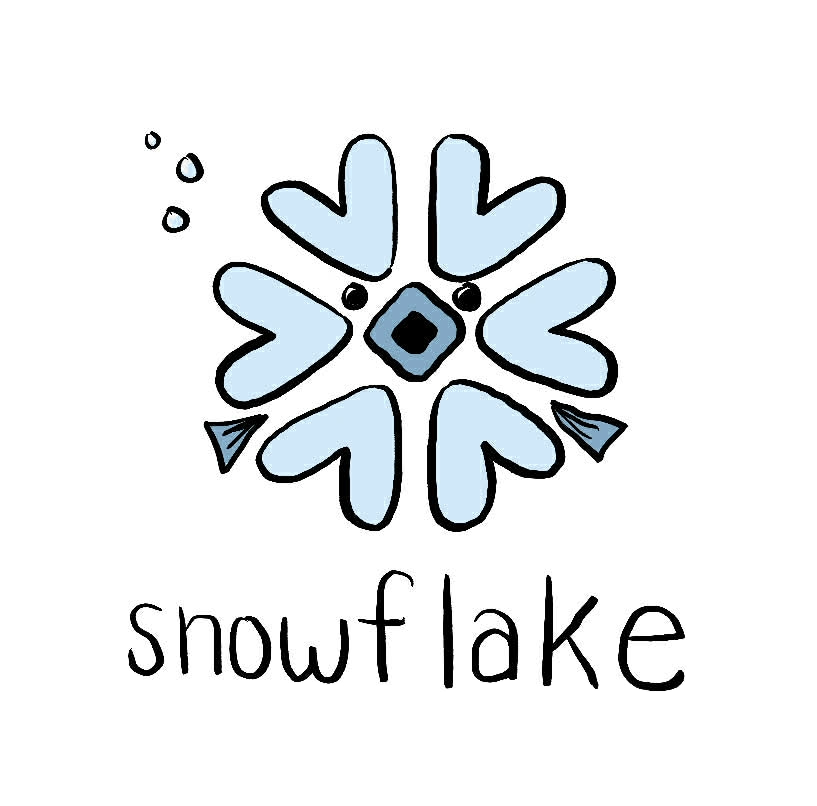
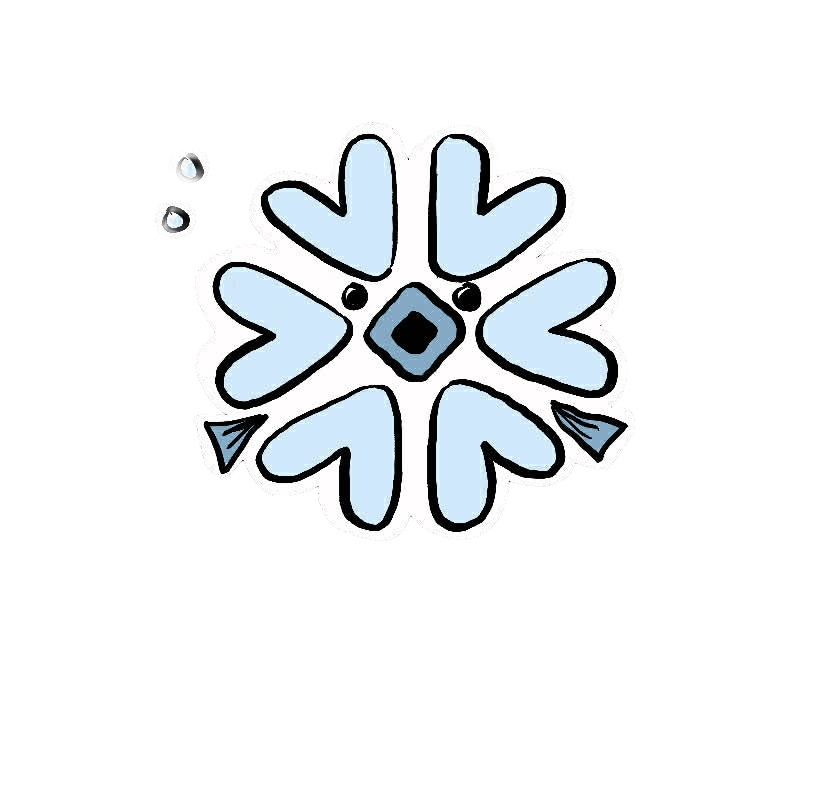
Tracks pager polish, scrollbar isolation, prizes, and audit cleanup
- Add prize line per track with muted gold styling and small dollar glyph
- Replace snowflake image, restyle headings to black with outline, scale pager controls fluidly
- Tracks scroll container narrowed and only shows scrollbar on overflow
- Force pointer-events: none on inactive section descendants so FAQ scroll no longer steals clicks meant for TRACKS
- Side-nav buttons only catch clicks on the visible bubble, not the full padding box
- TracksSection now uses SectionContainer with a new bare prop, matching other sections
- Drop Discord link, unify contact email to uncommonhacks@gmail.com, remove stale comments

diff --git a/site/src/components/sections/TracksSection.tsx b/site/src/components/sections/TracksSection.tsx
@@ -1,5 +1,5 @@
 import { useState } from 'react';
-import { useNavigation } from '../../context/navigation';
+import SectionContainer from './SectionContainer';
 import './sections.css';
 
 function wrapDashes(s: string) {
@@ -8,21 +8,33 @@ function wrapDashes(s: string) {
   );
 }
 
-type Item = { name: string; desc: string; image: string };
+function wrapPrize(s: string) {
+  return s.split(/(\$)/).flatMap((chunk, i) =>
+    chunk === '$'
+      ? [<span key={`d${i}`} className="prize-dollar">$</span>]
+      : wrapDashes(chunk).map((node, j) =>
+          typeof node === 'string'
+            ? <span key={`t${i}-${j}`}>{node}</span>
+            : node
+        )
+  );
+}
+
+type Item = { name: string; desc: string; image: string; prize: string };
 
 const TRACKS: Item[] = [
-  { name: 'Best Overall', desc: 'Awarded to the most impressive project across all dimensions — vision, execution, and pure originality.', image: '/assets/tracks/bestoverall.png' },
-  { name: 'Best Use of Real-Time Data', desc: 'For the project that turns live data streams into something useful or beautiful — built to react instantly.', image: '/assets/tracks/realdata.png' },
-  { name: 'Best Inference', desc: 'For the team pushing the limits of how models reason at the edge — speed, efficiency, scale, and novelty.', image: '/assets/tracks/inference.png' },
-  { name: 'Best Game Design', desc: 'For the most polished, playable, and inventive game built over the weekend — fresh, fun, and unforgettable.', image: '/assets/tracks/gamedesign.png' },
-  { name: 'Best Social Impact', desc: 'For projects that tackle real human problems — accessibility, community, education, or anything beyond that.', image: '/assets/tracks/socialimpact.png' },
-  { name: 'Best Agent for Prediction Markets', desc: 'For the most capable autonomous agent operating in prediction markets — reasoning, betting, and adapting.', image: '/assets/tracks/predictionmarket.png' },
+  { name: 'Best Overall', desc: 'Awarded to the most impressive project across all dimensions — vision, execution, and pure originality.', image: '/assets/tracks/bestoverall.png', prize: '$1,000 + ElevenLabs Pro Tier ($99/mo)' },
+  { name: 'Best Use of Real-Time Data', desc: 'For the project that turns live data streams into something useful or beautiful — built to react instantly.', image: '/assets/tracks/realdata.png', prize: '$300' },
+  { name: 'Best Inference', desc: 'For the team pushing the limits of how models reason at the edge — speed, efficiency, scale, and novelty.', image: '/assets/tracks/inference.png', prize: '$300' },
+  { name: 'Best Game Design', desc: 'For the most polished, playable, and inventive game built over the weekend — fresh, fun, and unforgettable.', image: '/assets/tracks/gamedesign.png', prize: '$300' },
+  { name: 'Best Social Impact', desc: 'For projects that tackle real human problems — accessibility, community, education, or anything beyond that.', image: '/assets/tracks/socialimpact.png', prize: '$300' },
+  { name: 'Best Agent for Prediction Markets', desc: 'For the most capable autonomous agent operating in prediction markets — reasoning, betting, and adapting.', image: '/assets/tracks/predictionmarket.png', prize: '$300' },
 ];
 
 const AWARDS: Item[] = [
-  { name: 'Most Uncommon', desc: 'For the project that breaks the mold — weird, wild, and unexpected in ways that redefine what is possible.', image: '/assets/tracks/mostuncommon.png' },
-  { name: 'Best Use of ElevenLabs', desc: 'For the most creative use of ElevenLabs voice technology — bringing characters, interfaces, or stories to life.', image: '/assets/tracks/elevenlabs.png' },
-  { name: 'Best Use of Snowflake', desc: 'For the most clever application of Snowflake data infrastructure — turning raw data into something insightful.', image: '/assets/tracks/snowflake.png' },
+  { name: 'Most Uncommon', desc: 'For the project that breaks the mold — weird, wild, and unexpected in ways that redefine what is possible.', image: '/assets/tracks/mostuncommon.png', prize: '$500' },
+  { name: 'Best Use of ElevenLabs', desc: 'For the most creative use of ElevenLabs voice technology — bringing characters, interfaces, or stories to life.', image: '/assets/tracks/elevenlabs.png', prize: 'ElevenLabs Scale Tier ($330/mo)' },
+  { name: 'Best Use of Snowflake', desc: 'For the most clever application of Snowflake data infrastructure — turning raw data into something insightful.', image: '/assets/tracks/snowflake.png', prize: '6-month access to Snowflake + LinkedIn feature' },
 ];
 
 function TrackPanel({ items, kind, heading }: { items: Item[]; kind: 'track' | 'award'; heading: string }) {
@@ -56,6 +68,7 @@ function TrackPanel({ items, kind, heading }: { items: Item[]; kind: 'track' | '
       </div>
       <h3 className="track-panel-name">{wrapDashes(current.name)}</h3>
       <p className="track-panel-desc">{wrapDashes(current.desc)}</p>
+      <p className="track-panel-prize">{wrapPrize(current.prize)}</p>
       <div className="track-panel-pager">
         <button
           className="track-pager-arrow"
@@ -83,25 +96,21 @@ function TrackPanel({ items, kind, heading }: { items: Item[]; kind: 'track' | '
 }
 
 export default function TracksSection() {
-  const { currentSection } = useNavigation();
-  const isActive = currentSection === 1;
-
   return (
-    <div
-      className={`section-container section-container-centered ${isActive ? 'section-active' : 'section-inactive'}`}
-      aria-hidden={!isActive}
-    >
+    <SectionContainer index={1} className="section-container-centered" bare>
       <div className="tracks-content">
         <img
           src="/assets/branding/tracks_white.png"
           alt="Tracks"
           style={{ width: '280px', maxWidth: '28vw', marginTop: '-4vh', filter: 'brightness(0.2) drop-shadow(0 4px 8px rgba(0, 0, 0, 0.5))' }}
         />
-        <div className="track-panels">
-          <TrackPanel items={TRACKS} kind="track" heading="MAIN TRACKS" />
-          <TrackPanel items={AWARDS} kind="award" heading="SPONSORED TRACKS" />
+        <div className="tracks-scroll">
+          <div className="track-panels">
+            <TrackPanel items={TRACKS} kind="track" heading="MAIN TRACKS" />
+            <TrackPanel items={AWARDS} kind="award" heading="SPONSORED TRACKS" />
+          </div>
         </div>
       </div>
-    </div>
+    </SectionContainer>
   );
 }

diff --git a/site/src/components/sections/sections.css b/site/src/components/sections/sections.css
@@ -22,6 +22,10 @@
   transform: translateY(40px);
 }
 
+.section-inactive * {
+  pointer-events: none !important;
+}
+
 .section-inner {
   max-width: 750px;
   width: 90%;
@@ -296,11 +300,35 @@
   pointer-events: auto;
 }
 
+.tracks-scroll {
+  max-height: 88vh;
+  overflow-y: auto;
+  overscroll-behavior: contain;
+  width: min(70vw, 1020px);
+  margin: 0 auto;
+  pointer-events: auto;
+}
+
+.tracks-scroll::-webkit-scrollbar {
+  width: 9px;
+}
+.tracks-scroll::-webkit-scrollbar-track {
+  background: rgba(15, 40, 90, 0.18);
+  border-radius: 5px;
+}
+.tracks-scroll::-webkit-scrollbar-thumb {
+  background: rgba(15, 40, 90, 0.85);
+  border-radius: 5px;
+}
+.tracks-scroll::-webkit-scrollbar-thumb:hover {
+  background: rgba(25, 60, 130, 1);
+}
+
 .track-panels {
   display: flex;
   gap: clamp(1.2rem, 2.5vw, 3rem);
   margin-top: clamp(-1rem, -1vh, 0.5rem);
-  width: min(96vw, 1300px);
+  width: 100%;
   align-items: flex-start;
 }
 
@@ -311,20 +339,19 @@
   align-items: center;
   padding: clamp(0.2rem, 0.5vw, 0.6rem) clamp(0.6rem, 1.2vw, 1.4rem);
   pointer-events: auto;
+  position: relative;
+  isolation: isolate;
 }
 
 .track-panel-heading {
   font-family: 'PhoFont', sans-serif;
-  font-size: clamp(1.4rem, 1.9vw, 2.3rem);
+  font-size: clamp(1.55rem, 2.1vw, 2.5rem);
   font-weight: 900;
   letter-spacing: 0.18em;
   text-transform: uppercase;
-  color: rgba(255, 255, 255, 0.95);
+  color: #000;
   margin-bottom: clamp(0.3rem, 0.7vw, 0.8rem);
-  text-shadow:
-    0 1px 6px rgba(0, 0, 0, 0.85),
-    0 0 22px rgba(0, 0, 0, 0.6),
-    0 0 50px rgba(0, 10, 30, 0.5);
+  text-shadow: none;
 }
 
 .track-panel-square {
@@ -332,7 +359,7 @@
   width: clamp(195px, 22vw, 320px);
   height: clamp(195px, 22vw, 320px);
   margin-top: clamp(-1.6rem, -1.2vw, -0.4rem);
-  margin-bottom: clamp(0.1rem, 0.3vw, 0.5rem);
+  margin-bottom: clamp(-1.2rem, -0.8vw, -0.2rem);
   display: flex;
   align-items: center;
   justify-content: center;
@@ -345,6 +372,7 @@
   object-fit: contain;
   filter: drop-shadow(0 6px 18px rgba(0, 20, 50, 0.55));
   animation: track-image-enter 520ms cubic-bezier(0.22, 0.8, 0.32, 1) both;
+  pointer-events: none;
 }
 
 .track-panel-image--next {
@@ -378,7 +406,7 @@
   font-weight: 900;
   color: #303030;
   text-align: center;
-  margin-bottom: 0.6rem;
+  margin-bottom: 0.25rem;
   text-shadow:
     0 0 8px rgba(255, 255, 255, 0.9),
     0 0 20px rgba(255, 255, 255, 0.7),
@@ -402,21 +430,49 @@
     0 0 40px rgba(255, 255, 255, 0.4);
 }
 
+.track-panel-prize {
+  font-family: 'PhoFont', sans-serif;
+  font-size: clamp(1.25rem, 1.6vw, 1.95rem);
+  font-weight: 800;
+  color: #b8860b;
+  text-align: center;
+  margin: 0 0 0.55rem;
+  max-width: none;
+  line-height: 1.25;
+  text-shadow:
+    0 0 6px rgba(255, 248, 220, 0.85),
+    0 0 14px rgba(255, 240, 190, 0.55);
+}
+
+.track-panel-prize .thin-dash {
+  font-size: 0.75em;
+  margin: 0 0.25em;
+  vertical-align: baseline;
+}
+
+.track-panel-prize .prize-dollar {
+  font-size: 0.65em;
+  vertical-align: 0.15em;
+  margin-right: 0.05em;
+}
+
 .track-panel-pager {
   display: flex;
   align-items: center;
-  gap: 0.9rem;
-  margin-top: 0.4rem;
+  gap: clamp(0.6rem, 1vw, 1.1rem);
+  margin-top: clamp(0.3rem, 0.6vw, 0.7rem);
+  position: relative;
+  z-index: 100;
 }
 
 .track-pager-arrow {
   background: rgba(35, 75, 145, 0.7);
   border: 1px solid rgba(70, 130, 195, 0.75);
   color: rgba(235, 245, 255, 0.98);
-  width: 2.2rem;
-  height: 2.2rem;
+  width: clamp(1.8rem, 2.4vw, 2.8rem);
+  height: clamp(1.8rem, 2.4vw, 2.8rem);
   border-radius: 50%;
-  font-size: 1.5rem;
+  font-size: clamp(1.2rem, 1.7vw, 1.9rem);
   font-weight: 700;
   cursor: pointer;
   display: flex;
@@ -441,12 +497,12 @@
 .track-pager-dots {
   display: flex;
   align-items: center;
-  gap: 0.55rem;
+  gap: clamp(0.4rem, 0.6vw, 0.7rem);
 }
 
 .track-pager-dot {
-  width: 0.65rem;
-  height: 0.65rem;
+  width: clamp(0.55rem, 0.75vw, 0.9rem);
+  height: clamp(0.55rem, 0.75vw, 0.9rem);
   border-radius: 999px;
   background: rgba(20, 40, 80, 0.5);
   border: none;
@@ -460,19 +516,25 @@
 }
 
 .track-pager-dot-active {
-  width: 1.85rem;
+  width: clamp(1.5rem, 2.1vw, 2.4rem);
   background: rgba(35, 75, 145, 0.98);
   box-shadow: 0 0 9px rgba(60, 130, 200, 0.55);
 }
 
 @media (max-width: 760px) {
+  .tracks-scroll {
+    width: 65vw;
+    max-height: 78vh;
+  }
   .track-panels {
     flex-direction: column;
-    width: 95vw;
+    width: 100%;
+    gap: clamp(2.4rem, 6vw, 3.6rem);
+    padding-bottom: 2rem;
   }
   .track-panel-desc {
     min-height: 4em;
-    max-width: none;
+    max-width: 30ch;
   }
 }
 

diff --git a/site/src/components/sections/SectionContainer.tsx b/site/src/components/sections/SectionContainer.tsx
@@ -6,9 +6,10 @@ interface Props {
   index: number;
   children: ReactNode;
   className?: string;
+  bare?: boolean;
 }
 
-export default function SectionContainer({ index, children, className = '' }: Props) {
+export default function SectionContainer({ index, children, className = '', bare = false }: Props) {
   const { currentSection } = useNavigation();
   const isActive = currentSection === index;
 
@@ -17,9 +18,7 @@ export default function SectionContainer({ index, children, className = '' }: Pr
       className={`section-container ${isActive ? 'section-active' : 'section-inactive'} ${className}`}
       aria-hidden={!isActive}
     >
-      <div className="section-inner">
-        {children}
-      </div>
+      {bare ? children : <div className="section-inner">{children}</div>}
     </div>
   );
 }

diff --git a/site/src/components/sections/ContactSection.tsx b/site/src/components/sections/ContactSection.tsx
@@ -12,12 +12,10 @@ export default function ContactSection() {
         <p>
           Have questions? Want to get involved? Reach out!
         </p>
-        {/* Replace with actual links */}
         <div className="contact-links">
-          <a href="mailto:team@uncommonhacks.com">Email</a>
+          <a href="mailto:uncommonhacks@gmail.com">Email</a>
           <a href="https://instagram.com/uncommonhacks" target="_blank" rel="noopener noreferrer">Instagram</a>
           <a href="https://twitter.com/uncommonhacks" target="_blank" rel="noopener noreferrer">Twitter</a>
-          <a href="https://discord.gg/uncommonhacks" target="_blank" rel="noopener noreferrer">Discord</a>
         </div>
         <a href="#apply" className="cta-button" style={{ marginTop: '2rem' }}>
           Apply Now

diff --git a/site/src/components/SideNav.css b/site/src/components/SideNav.css
@@ -5,6 +5,7 @@
   transform: translateY(-50%);
   z-index: 50;
   animation: nav-fade-in 1s ease 0.5s both;
+  pointer-events: none;
 }
 
 @keyframes nav-fade-in {
@@ -37,6 +38,7 @@
   cursor: pointer;
   padding: 0.3rem;
   transition: transform 0.2s;
+  pointer-events: none;
 }
 
 .side-nav-item:hover {
@@ -47,6 +49,7 @@
   flex-shrink: 0;
   transition: all 0.4s ease;
   filter: drop-shadow(0 0 4px rgba(79, 195, 247, 0.3));
+  pointer-events: auto;
 }
 
 .side-nav-active .side-nav-bubble {
@@ -79,7 +82,7 @@
 
 @media (max-width: 1300px) {
   .side-nav {
-    right: 0.75rem;
+    right: 2rem;
   }
 
   .side-nav-label {

diff --git a/site/src/components/sections/FAQSection.tsx b/site/src/components/sections/FAQSection.tsx
@@ -7,7 +7,6 @@ function wrapDashes(s: string) {
 }
 
 export default function FAQSection() {
-  // Replace with actual FAQ content
   const faqs = [
     { q: 'When and where is it?', a: 'May 16 – 17th @ UChicago. Location will be sent out to accepted applicants!' },
     { q: 'Who can participate?', a: 'Any university student — undergraduate or graduate. No prior hackathon experience needed.' },
